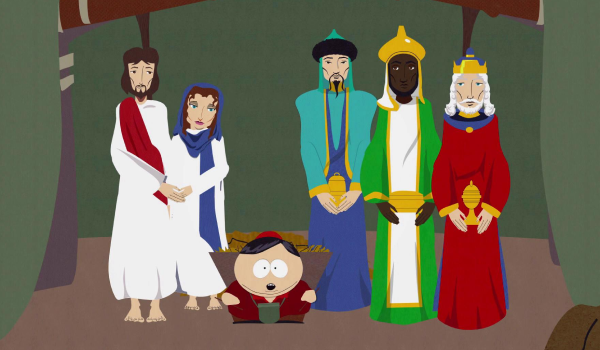
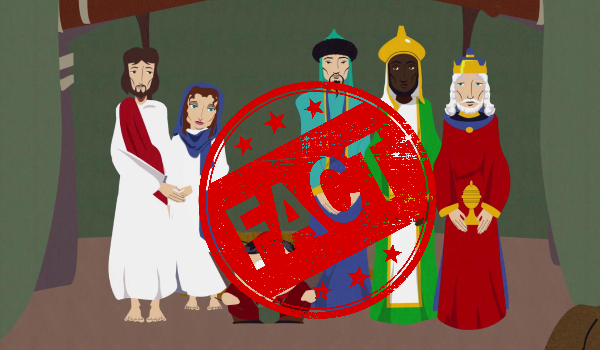
added truth image and message change

Changed region(s): [[0.33, 0.2286, 0.75, 0.9143]]

diff --git a/src/Accusation.jsx b/src/Accusation.jsx
@@ -6,16 +6,23 @@ export const Accusation = ({
   accusation,
   onCorroborate,
   onDeny,
-  participants
-
+  participants,
+  thresholdMet
 }) => {
   return (
     <Window key={accusation.uid}>
-      <Window.Img stage="accused" />
-      <Window.Title>
-        {participants[accusation.accuser] ?? "unknown"} has accused{" "}
-        {participants[accusation.accused] ?? "unknown"}
-      </Window.Title>
+      <Window.Img stage={thresholdMet ? "truth" : "accused"} />
+        {!thresholdMet &&
+            <Window.Title>
+                {participants[accusation.accuser] ?? "unknown"} has accused {" "}
+                {participants[accusation.accused] ?? "unknown"}
+            </Window.Title>
+        }
+        {thresholdMet &&
+            <Window.Title>
+                FACT!!!!!! {" : "} {participants[accusation.accuser] ?? "unknown"}...
+            </Window.Title>
+        }
       <Window.Subtitle>"{accusation.content}"</Window.Subtitle>
       <div>
         <Progress current={accusation.corroborations} max={3} variant="good" />
@@ -24,13 +31,15 @@ export const Accusation = ({
 
       <div className="flex gap-5">
         <button
-          className="w-full p-2 border-2 border-black"
+            disabled={thresholdMet}
+            className={thresholdMet ? "w-full p-2 border-2 border-black opacity-50 cursor-not-allowed" : "w-full p-2 border-2 border-black"}
           onClick={onCorroborate}
         >
           corroborate
         </button>
         <button
-          className="w-full p-2 text-white bg-black border-2 border-black"
+            disabled={thresholdMet}
+            className={thresholdMet ? "w-full p-2 text-white bg-black border-2 border-black opacity-50 cursor-not-allowed" : "w-full p-2 text-white bg-black border-2 border-black"}
           onClick={onDeny}
         >
           deny

diff --git a/src/pages/Accusation.jsx b/src/pages/Accusation.jsx
@@ -19,6 +19,7 @@ export const AccusationPage = () => {
       key={accusation.uid}
       accusation={accusation}
       participants={participants}
+      thresholdMet={accusation.corroborations > 3 || accusation.denials > 3}
       onCorroborate={() => {
         corroborate(signer, accusation);
       }}
